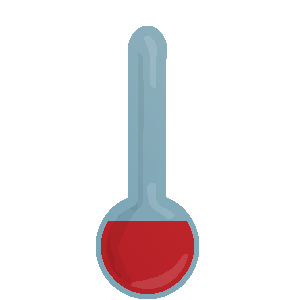
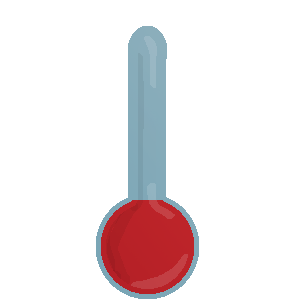
Added support for multi-frame transitions

Changed region(s): [[0.36, 0.66, 0.63, 0.75]]

diff --git a/_js/animator.js b/_js/animator.js
@@ -5,6 +5,10 @@ function Animation(location, width, height) {
     this.opacity = 0;
     this.width = width;
     this.height = height;
+    this.frameAmount = 1;
+}
+Animation.prototype.getFrameAmount = function () {
+    return this.frameAmount;
 }
 Animation.prototype.getWidth = function () {
     return this.width;
@@ -31,7 +35,11 @@ Animation.prototype.getFile = function () {
     return this.file;
 }
 Animation.prototype.setFile = function (location) {
-        this.file = location;
+    this.file = location;
+    return this;
+}
+Animation.prototype.setFrameAmount = function (amount) {
+        this.frameAmount = amount;
         return this;
     }
     /*
@@ -49,18 +57,19 @@ Animator.prototype.display = function () {
         var items = this.states.map(function (animation, index) {
             var svg;
             if (currentAnimator.frames.length < index + 1) {
-                 svg = $("<svg width=\"" + animation.getWidth() + "\" height=\"" + animation.getHeight() + "\" viewBox=\"0 0 " + animation.getWidth() + " " + animation.getHeight() + "\" preserveAspectRatio=\"xMidYMid meet\">");
+                svg = $("<svg width=\"" + animation.getWidth() + "\" height=\"" + animation.getHeight() + "\" viewBox=\"0 0 " + animation.getWidth() + " " + animation.getHeight() + "\" preserveAspectRatio=\"xMidYMid meet\">");
                 $(svg).html('<image xlink:href="' + animation.getFile() + '" x="0" y="0" height="' + animation.getHeight() + '" width="' + animation.getWidth() + '"/>');
                 currentAnimator.frames.push(svg);
-            }else{
+            }
+            else {
                 svg = currentAnimator.frames[index];
             }
-
             if (index <= currentAnimator.getCurrentStep()) {
                 animation.setOpacity(100);
-            }else{
+            }
+            else {
                 animation.setOpacity(0);
-                $(svg).css("opacity",animation.getOpacity());
+                $(svg).css("opacity", animation.getOpacity());
             }
             $(svg).animate({
                 opacity: animation.opacity / 100
@@ -90,8 +99,8 @@ Animator.prototype.setStates = function () {
     return this;
 }
 Animator.prototype.setCurrentStep = function (step) {
-    if(step < 0) step = 0;
-    if(step >= this.states.length) step = this.states.length-1;
+    if (step < 0) step = 0;
+    if (step >= this.states.length) step = this.states.length - 1;
     this.currentStep = step;
     return this;
 }
@@ -103,114 +112,104 @@ Animator.prototype.setTransitionDuration = function (durration) {
     this.transitionDuration = durration;
     return this;
 }
-
 Animator.prototype.transitionToStep = function (transition, step) {
-    if(step == this.currentStep) return this;
-    if(step < 0) step = 0;
-    if(step >= this.states.length) step = this.states.length-1;
+    if (step == this.currentStep) return this;
+    if (step < 0) step = 0;
+    if (step >= this.states.length) step = this.states.length - 1;
     console.log("STEP:", step);
     var direction = (step < this.currentStep) ? -1 : 1;
+    var currentAnimationDurration = (this.states.length/5);
+    console.log("Animation", currentAnimationDurration);
 
-    var difference = this.transitionDuration/Math.abs(step - this.currentStep);
-
+    console.log("Hello", currentAnimationDurration);
+    var difference = (this.transitionDuration / Math.abs(step - this.currentStep%5))/currentAnimationDurration;
+    console.log("Difference: "+difference);
     var index = this.currentStep;
     var me = this;
     //for(var  i= 0; i < 5; i ++)
-
-
     var pathToStep = [];
-    var path = getNumberPath(this.currentStep, step);
 
-    function complete(){
+    var inc = (step+1)*(currentAnimationDurration)-1;
+    var path = getNumberPath(this.currentStep, inc);
+
+    function complete() {
         me.setCurrentStep(path[0]);
-        path.splice(0,1);
-        if(path.length <= 0 || (transition === Animator.prototype.fadeOut && path.length <= 1)){
-            if((transition === Animator.prototype.fadeOut && path.length <= 1))
-                console.log("too far back");
+        path.splice(0, 1);
+        if (path.length <= 0 || (transition === Animator.prototype.fadeOut && path.length <= 1)) {
+            if ((transition === Animator.prototype.fadeOut && path.length <= 1)) console.log("too far back");
             console.log("End of the Line Partner!");
             return;
         }
-        transition.call(me, path[0],difference,complete);
+        transition.call(me, path[0], difference, complete);
     }
-    console.log(me.getCurrentStep(),path[0])
-    transition.call(me, path[0],difference,complete);
-
-
-
+    console.log(me.getCurrentStep(), path[0], "Inc:", inc)
+    transition.call(me, path[0], difference, complete);
 }
 
-
-function getNumberPath(num1, num2){
+function getNumberPath(num1, num2) {
     var largest = (num1 > num2) ? num1 : num2;
-    var smallest = (num1 <= num2) ? num1: num2;
+    var smallest = (num1 <= num2) ? num1 : num2;
     var items = [];
-    for(var i = smallest; i <= largest; i++)
-        items.push(i);
-    if(num1 == largest)
-        items.sort(function(a,b){
-            if(a > b)
-                return -1;
-            else if(a < b)
-                return 1;
-            return 0;
-        });
+    for (var i = smallest; i <= largest; i++) items.push(i);
+    if (num1 == largest) items.sort(function (a, b) {
+        if (a > b) return -1;
+        else if (a < b) return 1;
+        return 0;
+    });
     return items;
 }
-
-Animator.prototype.crossFade = function(step, durration, callback){
-    if(!callback)callback = function(){};
+Animator.prototype.crossFade = function (step, durration, callback) {
+    if (!callback) callback = function () {};
     //console.log(callback);
-    console.log(step,this.currentStep);
+    console.log(step, this.currentStep);
     this.fadeIn(step, durration, callback);
-    this.fadeOut(this.currentStep, durration, function(){});
-
+    this.fadeOut(this.currentStep, durration, function () {});
 }
-Animator.prototype.fadeIn = function(step, durration, callback){
+Animator.prototype.fadeIn = function (step, durration, callback) {
     //console.log("Fade In", step);
     //console.log(durration);
     this.states[step].setOpacity(100);
     $(this.frames[step]).animate({
-        opacity:this.states[step].getOpacity()/100
+        opacity: this.states[step].getOpacity() / 100
     }, durration, callback);
 }
-Animator.prototype.fadeOut = function(step, durration, callback){
-     //  console.log("Fade Out", step);
-    //   console.log(durration)
-     this.states[step].setOpacity(0);
-    $(this.frames[step]).animate({
-        opacity:this.states[step].getOpacity()/100
-    }, durration, callback);
-}
-
-/*var animations = new Array(5);
-for (var i = 0; i < animations.length; i++) animations[i] = "./GIF/Crossfade/c" + (i + 1) + ".png";
-animations = animations.map(function (url) {
-    return new Animation(url, 350, 650);
-});
-console.log(animations);
-var box1 = new Animator(animations);
-box1.setScene("#crossfade")
-    .setCurrentStep(0)
-    .setTransitionDuration(1500)
-    .display();
-var transition = Animator.prototype.fadeIn;
-box1.transitionToStep(transition, 4);
-/*
- * DEGUBBING
- */
-/*
-var item = 0;
-var going_back = false;
-window.setInterval(function () {
-        if (item < box1.getStates().length && !going_back){
-            box1.setCurrentStep(item).display();
-            item++;
-        }else if(going_back && item <= 0){
-            going_back = false;
-        }else{
-            going_back = true;
-            box1.setCurrentStep(item).display();
-            item--;
-        }
-    }, 1500)
-    //*/
+Animator.prototype.fadeOut = function (step, durration, callback) {
+        //  console.log("Fade Out", step);
+        //   console.log(durration)
+        this.states[step].setOpacity(0);
+        $(this.frames[step]).animate({
+            opacity: this.states[step].getOpacity() / 100
+        }, durration, callback);
+    }
+    /*var animations = new Array(5);
+    for (var i = 0; i < animations.length; i++) animations[i] = "./GIF/Crossfade/c" + (i + 1) + ".png";
+    animations = animations.map(function (url) {
+        return new Animation(url, 350, 650);
+    });
+    console.log(animations);
+    var box1 = new Animator(animations);
+    box1.setScene("#crossfade")
+        .setCurrentStep(0)
+        .setTransitionDuration(1500)
+        .display();
+    var transition = Animator.prototype.fadeIn;
+    box1.transitionToStep(transition, 4);
+    /*
+     * DEGUBBING
+     */
+    /*
+    var item = 0;
+    var going_back = false;
+    window.setInterval(function () {
+            if (item < box1.getStates().length && !going_back){
+                box1.setCurrentStep(item).display();
+                item++;
+            }else if(going_back && item <= 0){
+                going_back = false;
+            }else{
+                going_back = true;
+                box1.setCurrentStep(item).display();
+                item--;
+            }
+        }, 1500)
+        //*/

diff --git a/_js/main.js b/_js/main.js
@@ -1,7 +1,7 @@
 var boxen = [];
 
 var containers = [
-    {name:"meter", items: 5, width:300, height: 300, path:"./GIF/Meter/thermometer", ext:".png", rule:function(i){return i}},
+    {name:"meter", items: 10, width:300, height: 300, path:"./GIF/Meter/thermometer", ext:".png", rule:function(i){return i}},
     {name:"stackable", items: 5, width:175, height: 325, path:"./GIF/Stackable/volcano", ext:".gif", rule:function(i){return i}},
     {name:"crossfade", items: 5, width:300, height: 300, path:"./GIF/Crossfade/mountain", ext:".png", rule:function(i){return i}}];
 
@@ -9,7 +9,9 @@ containers.map(function(container) {
     var animations = new Array(container.items);
     for (var i = 0; i < animations.length; i++) animations[i] = container.path + container.rule(i+1) + container.ext;
     animations = animations.map(function (url) {
-        return new Animation(url, container.width, container.height);
+        var animation = new Animation(url, container.width, container.height);
+        if(container.frames)animation.setFrameAmount(container.frames);
+        return animation;
     });
     var box = new Animator(animations);
     box.setScene("#"+container.name)
